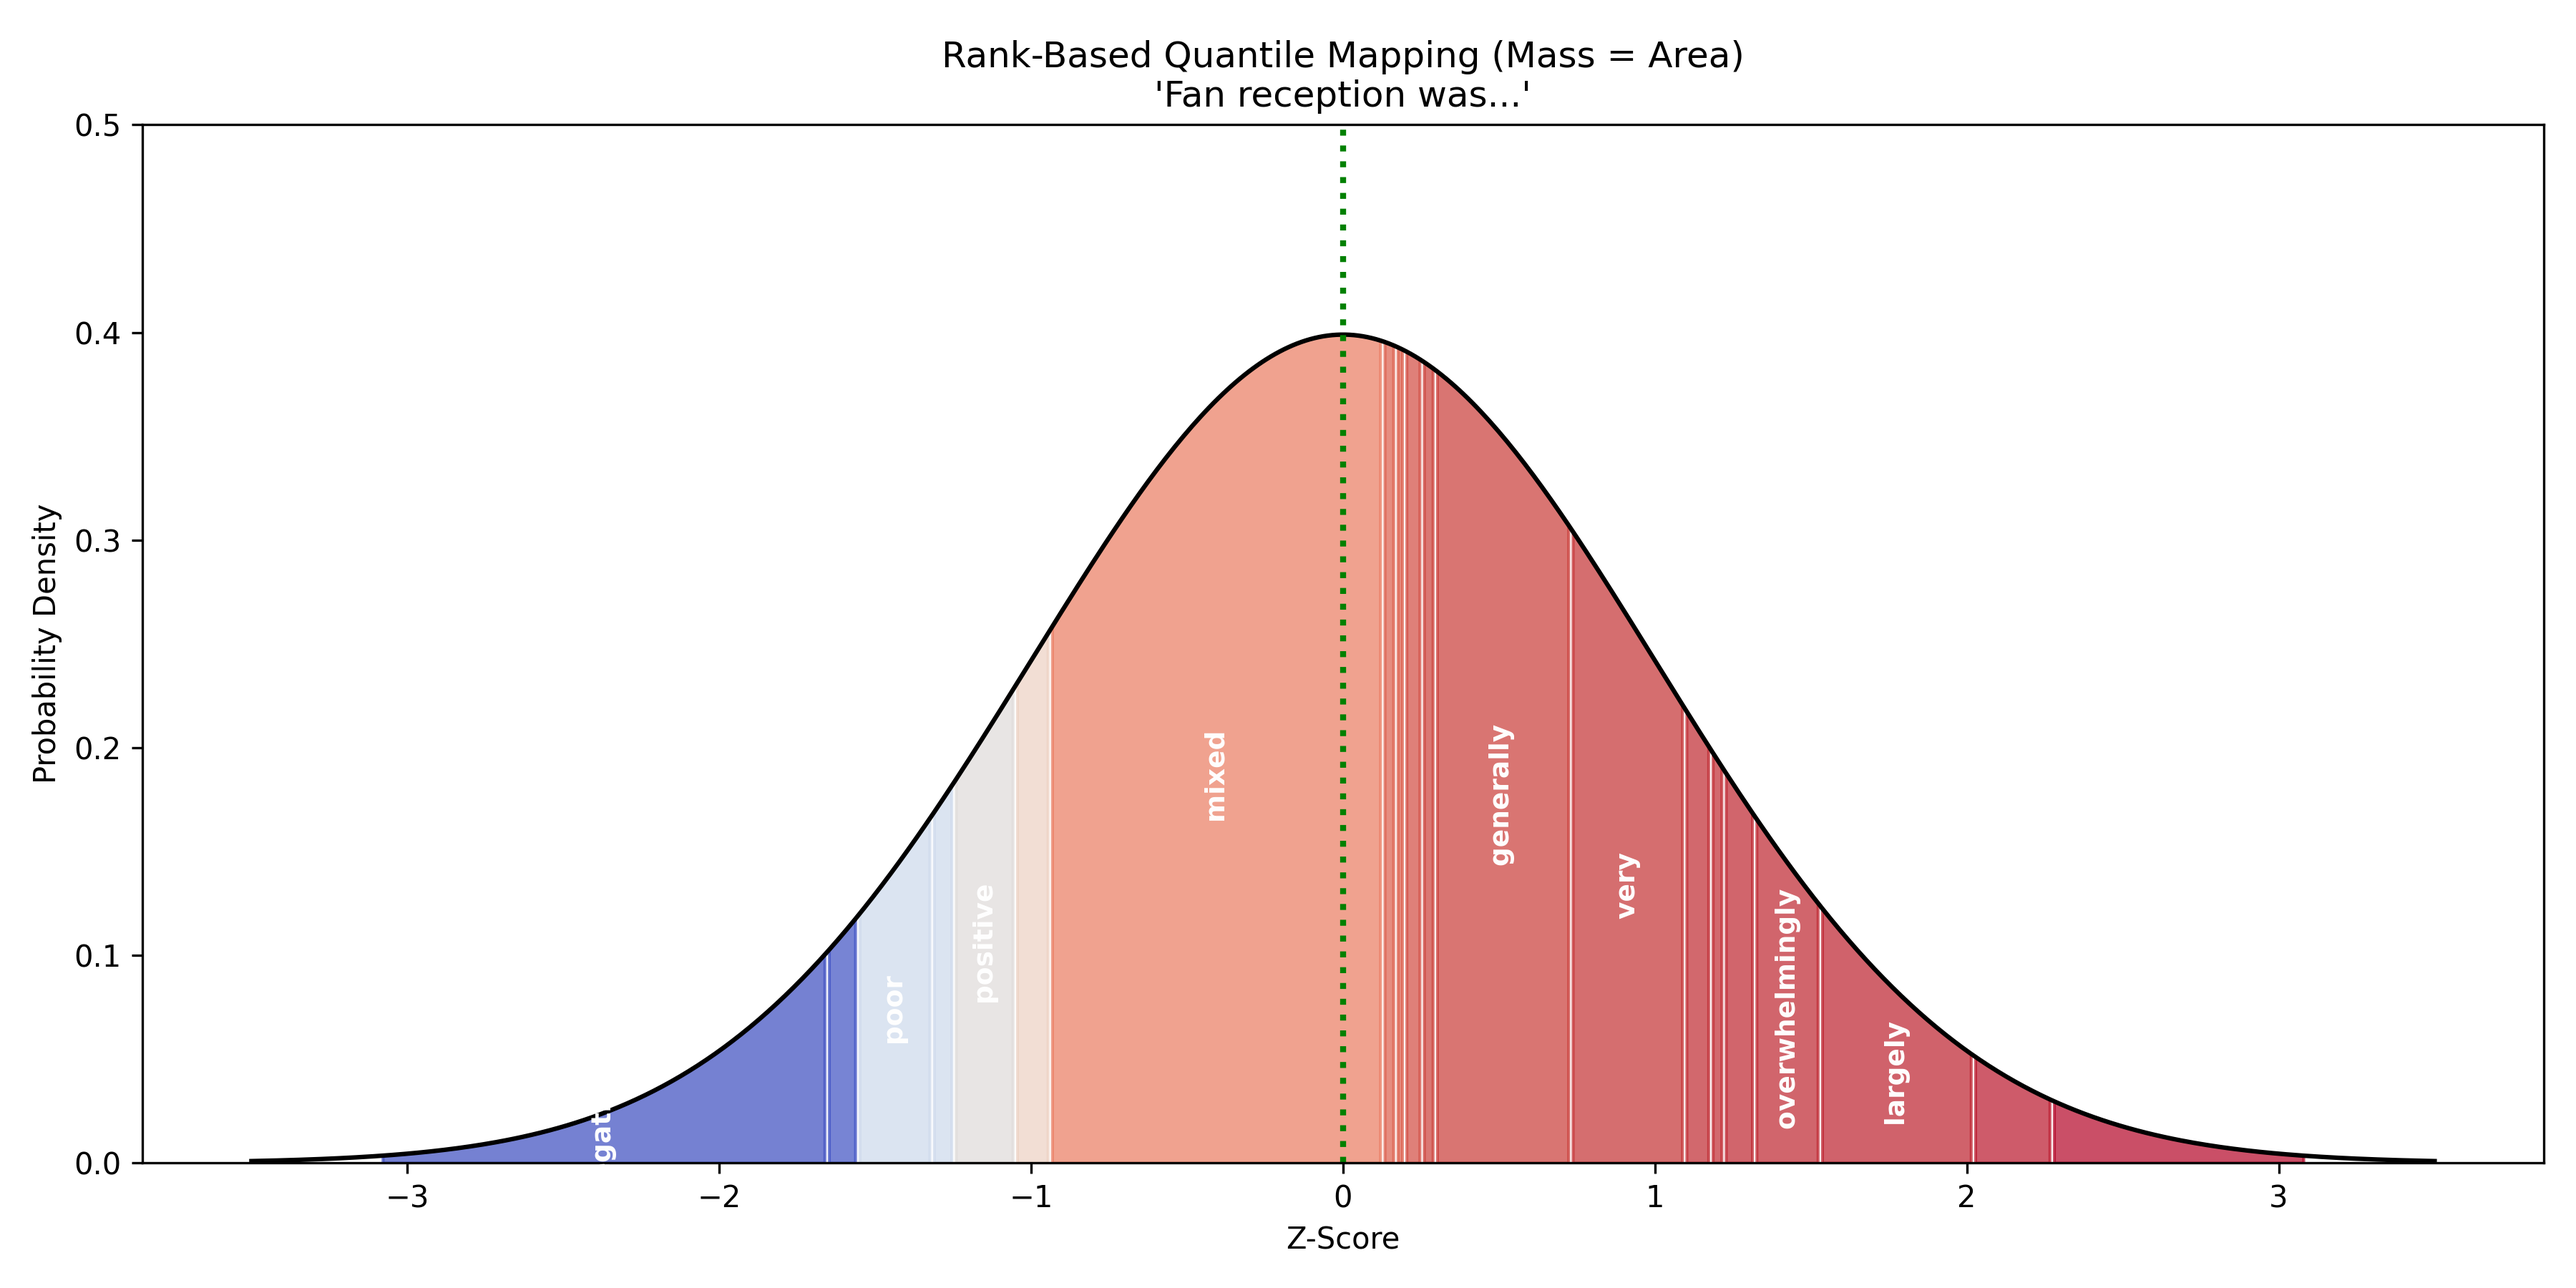
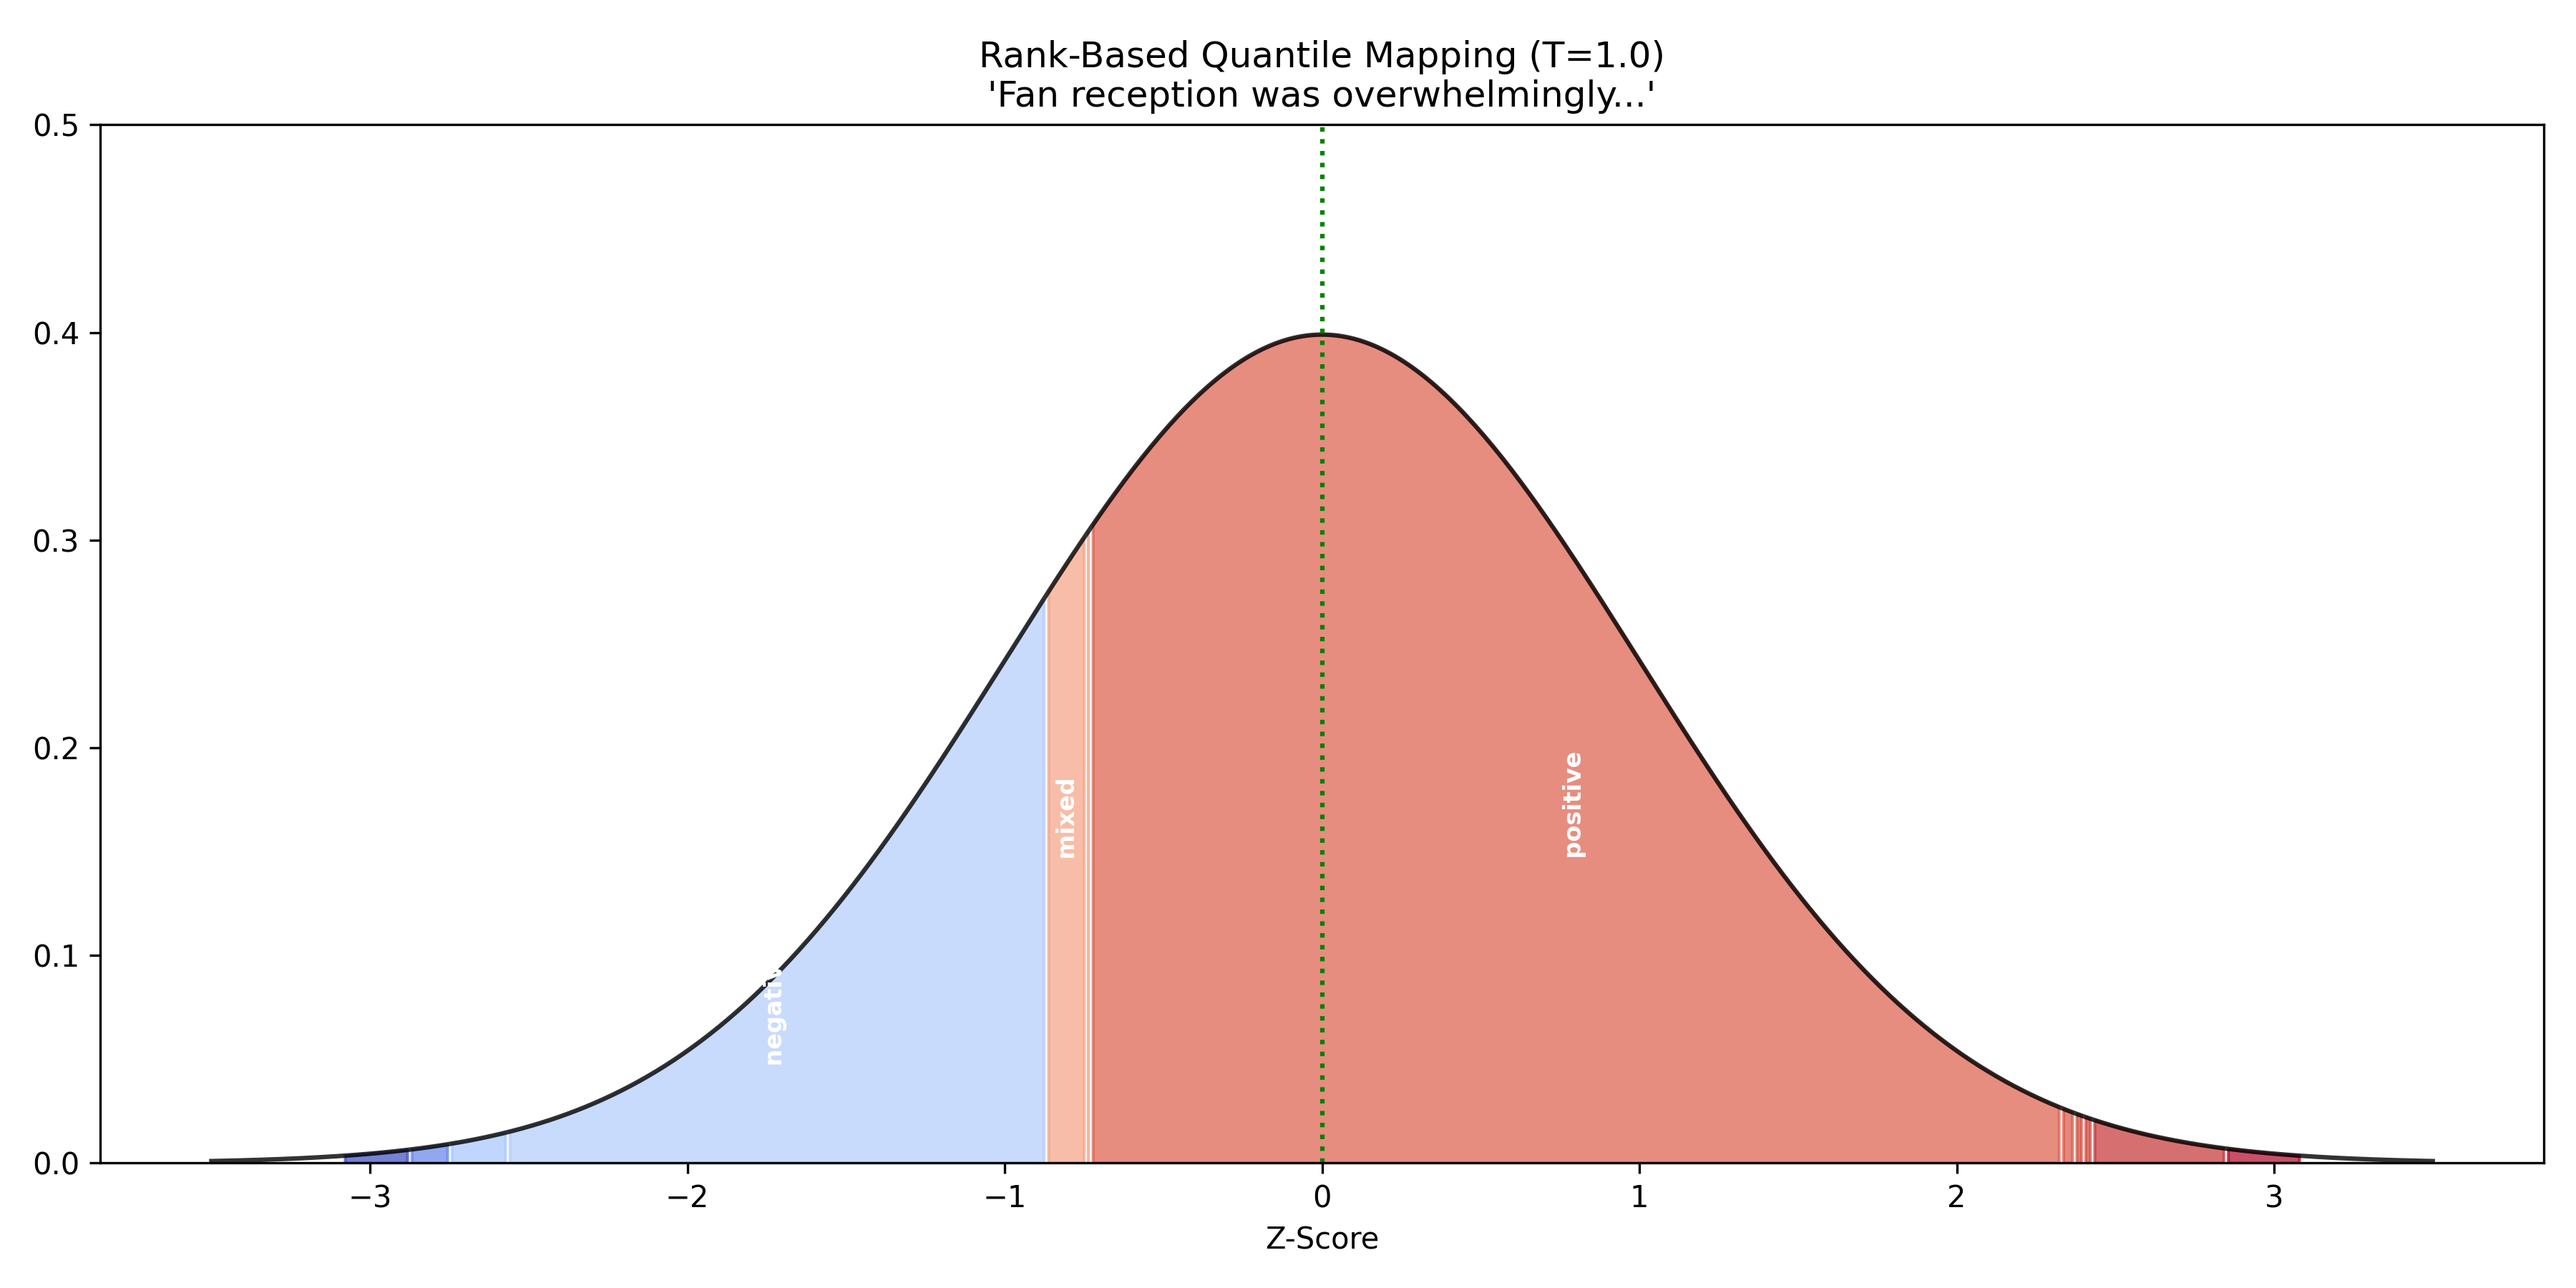
Docs: Finalize visualizations (Fan Reception Overwhelmingly + Multi-Panel Temp)

diff --git a/README.md b/README.md
@@ -21,7 +21,7 @@ The Semantic LLM Interpreter treats language generation not as a probabilistic g
 We assume that at any branching point (disagreement), the candidate tokens lie on a low-dimensional "Intent Manifold".
 
 **Example Prompt:**
-> "The final season of the long-running show deviated significantly from the source material. Fan reception was..."
+> "The final season of the long-running show deviated significantly from the source material. Fan reception was overwhelmingly..."
 
 1.  **Embed**: We project `Context + Candidate` into a high-dimensional space ($\mathbb{R}^{384}$) using `sentence-transformers`.
 2.  **PCA**: We identify the Principal Component ($PC_1$) that captures the maximum variance (conflict) between candidates.
